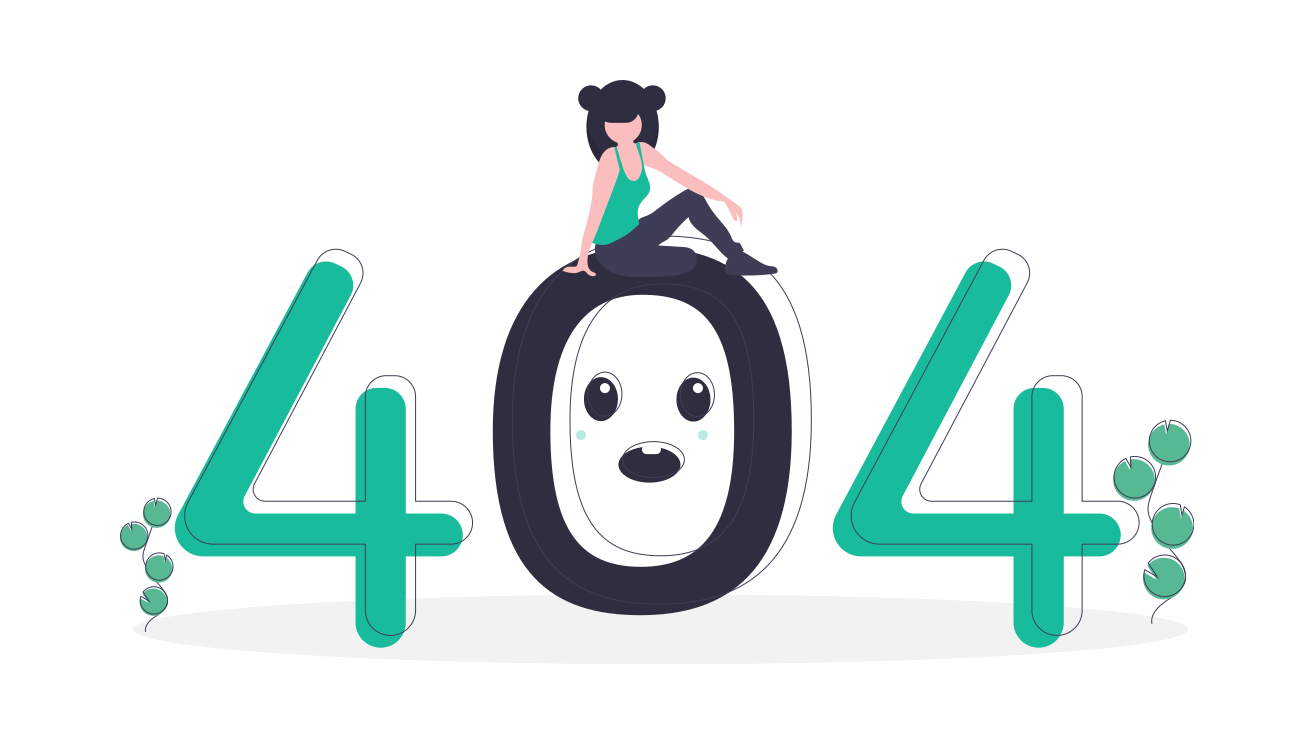
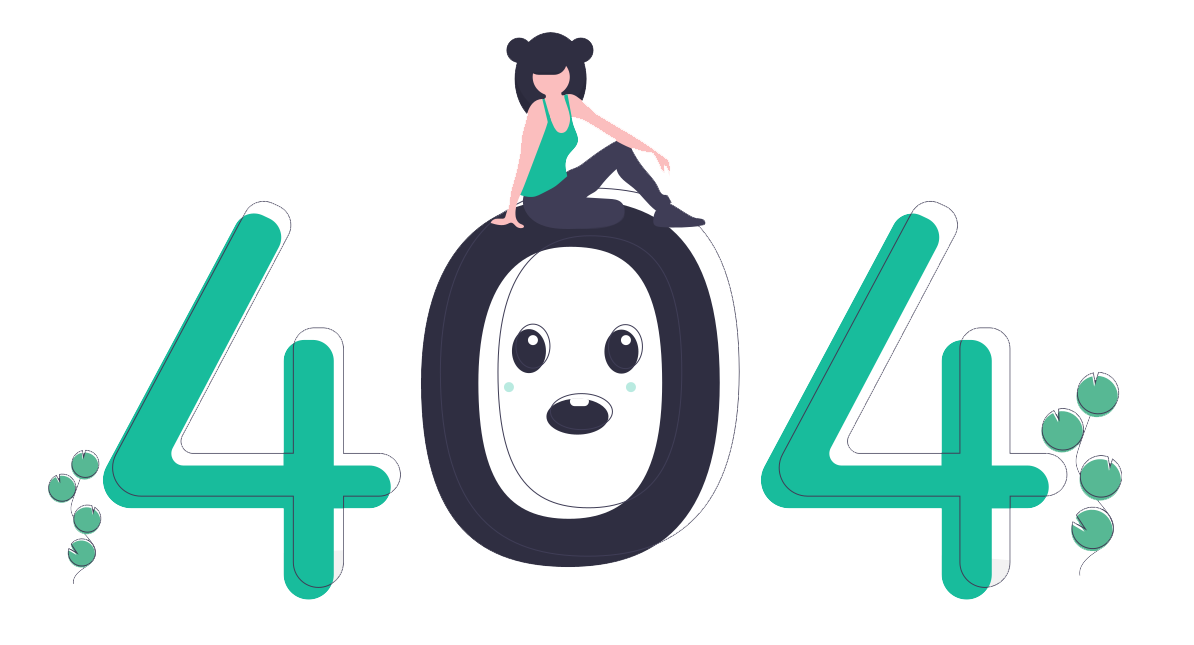
page not found

Changed region(s): [[0.031, 0.031, 0.9606, 0.9302]]

diff --git a/public/js/app.js b/public/js/app.js
@@ -5152,7 +5152,7 @@ exports = module.exports = __webpack_require__(/*! ../../../node_modules/css-loa
 
 
 // module
-exports.push([module.i, ".not-found {\n  height: 100vh;\n  background: #2c3e50;\n  display: flex;\n  justify-content: center;\n  align-items: center;\n}\n.not-found .err-page {\n  margin-top: 50px;\n}\n.not-found .err-page img {\n  width: 65%;\n  height: 340px;\n}\n.not-found .err-page .error-content {\n  color: #555;\n}\n.not-found .err-page .error-content .fa {\n  color: #18bc9c;\n  display: block;\n  font-size: 100px;\n  margin: 5px 0;\n}\n.not-found .err-page .error-content h1 {\n  margin-top: 0;\n  color: #18bc9c;\n}", ""]);
+exports.push([module.i, ".not-found {\n  height: 100vh;\n  background: #2c3e50;\n  display: flex;\n  justify-content: center;\n  align-items: center;\n}\n.not-found .err-page img {\n  width: 65%;\n  height: 340px;\n}\n.not-found .err-page .error-content {\n  color: #555;\n}\n.not-found .err-page .error-content .fa {\n  color: #18bc9c;\n  display: block;\n  font-size: 100px;\n  margin: 5px 0;\n}\n.not-found .err-page .error-content h1 {\n  margin-top: 0;\n  color: #18bc9c;\n}", ""]);
 
 // exports
 

diff --git a/resources/js/components/not-found.vue b/resources/js/components/not-found.vue
@@ -24,7 +24,6 @@
   justify-content: center;
   align-items: center;
   .err-page {
-    margin-top: 50px;
     img {
         width:65%;
         height:340px;
